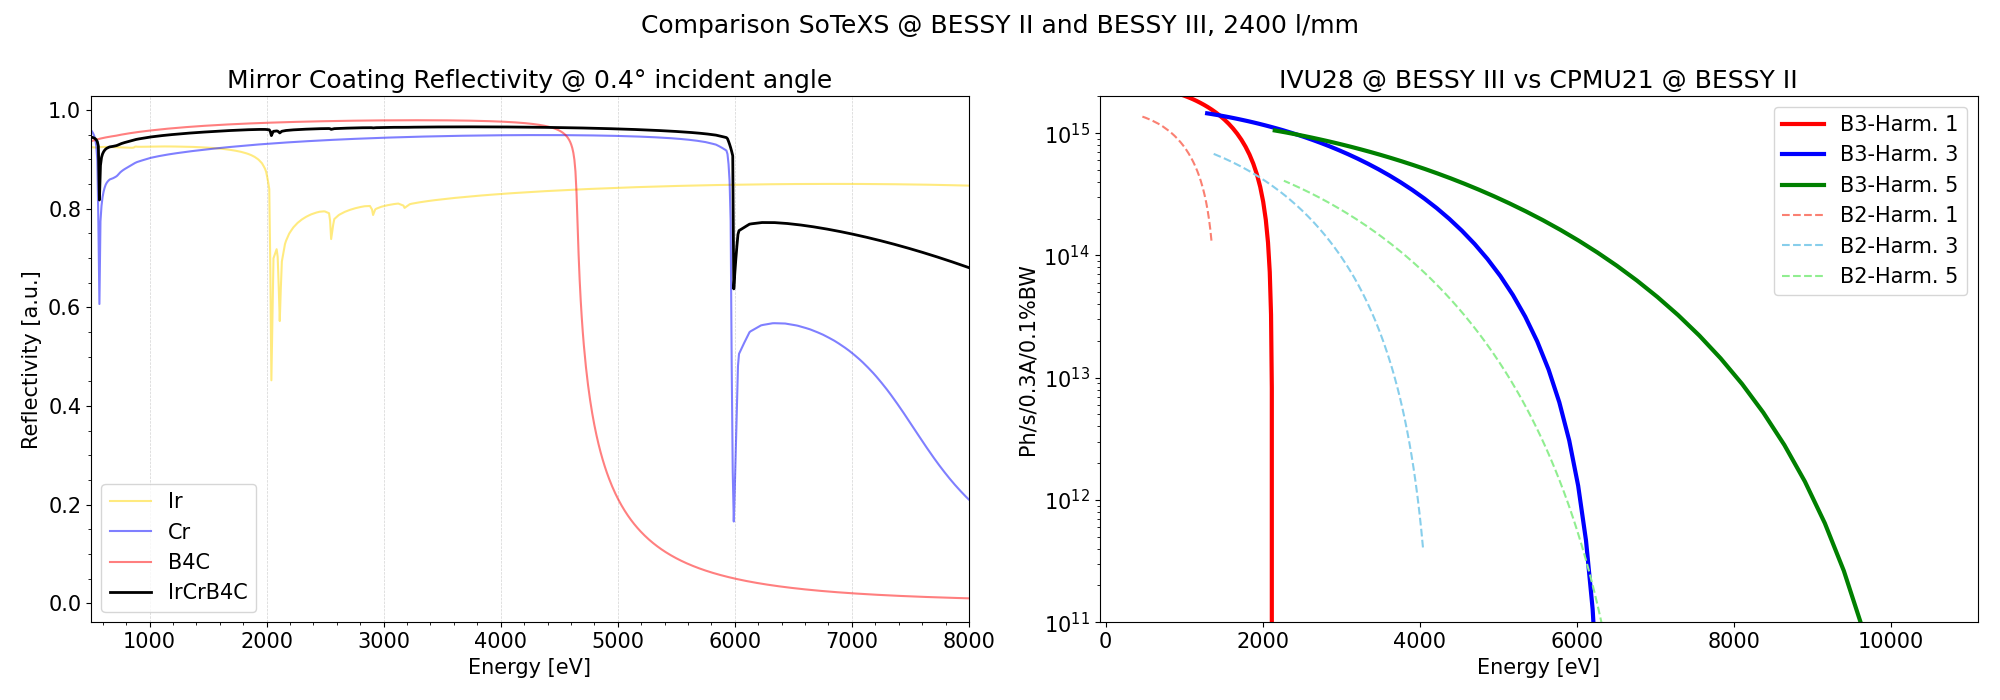
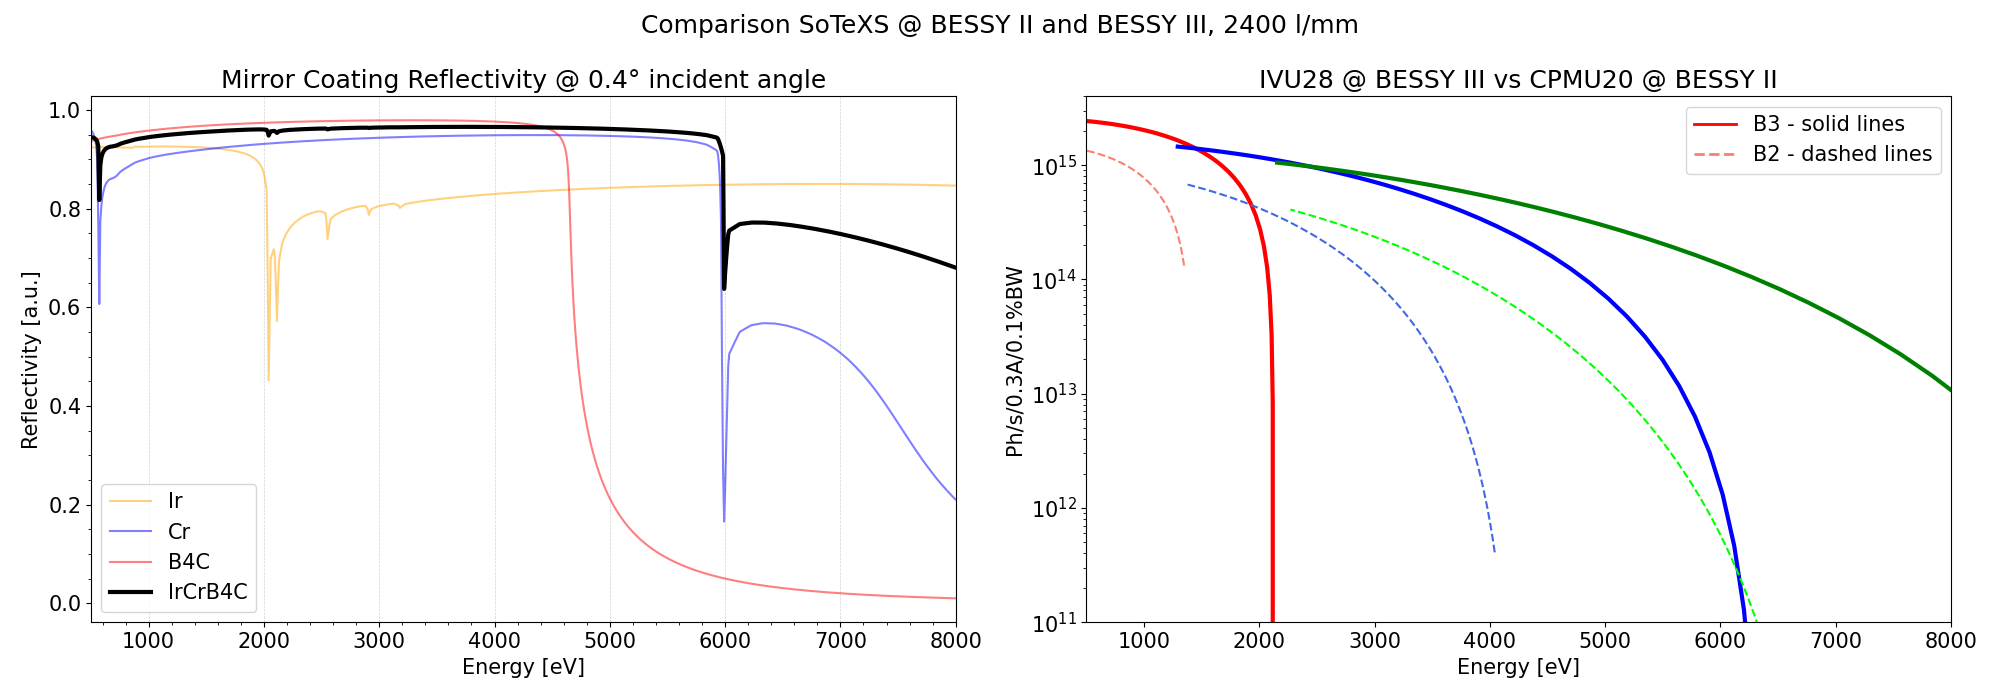
sotexs BII simulation_1200_Pt

diff --git a/beamlines/Signature1-SoTeXS/simulations/comparison_with_BII/eval_2400_talk.py b/beamlines/Signature1-SoTeXS/simulations/comparison_with_BII/eval_2400_talk.py
@@ -43,6 +43,8 @@ plt.rcParams.update({'font.size': 15})  # Change 14 to any size you prefer
 fig, (axs) = plt.subplots(1, 2, figsize=(20, 7))
 fig.suptitle('Comparison SoTeXS @ BESSY II and BESSY III, 2400 l/mm')
 x_range = [500, 8000]
+colors = ['red', 'blue', 'green']
+color_B2 = ['salmon', 'royalblue', 'lime']
 
 # MIRROR REFLECTIVITY
 ax1 = axs[0]
@@ -63,10 +65,10 @@ Cr, _ = get_reflectivity(Cr, E=E, theta=theta)
 B4C, _ = get_reflectivity(B4C, E=E, theta=theta)
 IrCrB4C, _ = get_reflectivity(IrCrB4C, E=E, theta=theta)
 
-ax1.plot(E, Ir, 'gold', label='Ir', alpha=0.5)
+ax1.plot(E, Ir, 'orange', label='Ir', alpha=0.5)
 ax1.plot(E, Cr, 'blue', label='Cr', alpha=0.5)
 ax1.plot(E, B4C, 'red', label='B4C', alpha=0.5)
-ax1.plot(E, IrCrB4C, 'black', label='IrCrB4C', linewidth=2)
+ax1.plot(E, IrCrB4C, 'black', label='IrCrB4C', linewidth=3)
 
 ax1.set_title('Mirror Coating Reflectivity @ 'f'{theta}° incident angle')
 ax1.set_xlabel('Energy [eV]')
@@ -81,8 +83,7 @@ ax1.grid(which='major', axis='x', linestyle='--', linewidth=0.5, color='lightgre
 ax3 = axs[0]
 
 window = 20
-colors = ['red', 'blue', 'green']
-color_B2 = ['salmon', 'skyblue', 'lightgreen']
+
 
 
 ax3 = axs[1]
@@ -98,12 +99,19 @@ for ind,harm in enumerate(harms):
              color=color_B2[ind], linestyle='dashed',
              label=f'B2-Harm. {harm}')
     
-ax3.legend()
 ax3.set_yscale('log')
-ax3.set_ylim((1e11,2e15))
+ax3.set_ylim((1e11,4e15))
+ax3.set_xlim(x_range)
 ax3.set_xlabel('Energy [eV]')
 ax3.set_ylabel('Ph/s/0.3A/0.1%BW')
-ax3.set_title('IVU28 @ BESSY III vs CPMU21 @ BESSY II')
+ax3.set_title('IVU28 @ BESSY III vs CPMU20 @ BESSY II')
+
+custom_lines = [
+    Line2D([0], [0], color=colors[0], linestyle='solid', lw=2),
+    Line2D([0], [0], color=color_B2[0], linestyle='dashed', lw=2),
+]
+
+ax3.legend(custom_lines, ['B3 - solid lines', 'B2 - dashed lines'], loc='best')
 
 # SAVING
 # Ensure the "plot" folder exists
@@ -130,25 +138,27 @@ fig.suptitle('Comparison SoTeXS @ BESSY II and BESSY III, 2400 l/mm')
 ax3 = axs[0]
 
 window = 20
-colors = ['red', 'blue', 'green']
-color_B2 = ['salmon', 'skyblue', 'lightgreen']
+
 
 ax3.plot(mov_av(BL_df['PhotonEnergy'], window), 
              mov_av(BL_df['Bandwidth']*1000, window),
              linestyle='solid',
              label=f'B3 - nano focus',
-             color='blue')
+             color='blue',
+             linewidth=3,)
+
 ax3.plot(mov_av(BL_df_micro['PhotonEnergy'], window), 
              mov_av(BL_df_micro['Bandwidth']*1000, window),
              linestyle='solid',
              label=f'B3 - micro focus', 
-             color='orange')
+             color='orange',
+             linewidth=3,)
 
 ax3.plot(mov_av(BL_df_2['PhotonEnergy'], window), 
              mov_av(BL_df_2['Bandwidth']*1000, window),
              linestyle='solid',
              label=f'B2', 
-             color='green')
+             color='lime')
 
 
 
@@ -164,13 +174,14 @@ ax3.grid(which='major', axis='x', linestyle='--', linewidth=0.5, color='lightgre
 # BEAMLINE FLUX CURVE
 ax4 = axs[1]
 window = 1
+ls = ['solid', 'dashed', 'dotted']
 for ind,harm in enumerate(harms):
     Emin_harm = undulator_3[f'Energy{harm}[eV]'].min()
     Emax_harm = undulator_3[f'Energy{harm}[eV]'].max()
     filtered_df = BL_df[(BL_df['PhotonEnergy'] >= Emin_harm) & (BL_df['PhotonEnergy'] <= Emax_harm)]
     ax4.plot(mov_av(filtered_df['PhotonEnergy'], window), 
              mov_av(filtered_df[f'PhotonFlux{harm}'], window),
-             color='blue', linestyle='solid',
+             color='blue', linestyle=ls[ind], linewidth=3,
              label=f'B3-nano')
 
 for ind,harm in enumerate(harms):
@@ -179,7 +190,7 @@ for ind,harm in enumerate(harms):
     filtered_df = BL_df_micro[(BL_df_micro['PhotonEnergy'] >= Emin_harm) & (BL_df_micro['PhotonEnergy'] <= Emax_harm)]
     ax4.plot(mov_av(filtered_df['PhotonEnergy'], window), 
              mov_av(filtered_df[f'PhotonFlux{harm}'], window),
-             color='orange', linestyle='solid',
+             color='orange', linestyle=ls[ind], linewidth=3,
              label=f'B3-micro')
     
 for ind,harm in enumerate(harms):    
@@ -188,20 +199,14 @@ for ind,harm in enumerate(harms):
     filtered_df = BL_df_2[(BL_df_2['PhotonEnergy'] >= Emin_harm) & (BL_df_2['PhotonEnergy'] <= Emax_harm)]
     ax4.plot(mov_av(filtered_df['PhotonEnergy'], window), 
                 mov_av(filtered_df[f'PhotonFlux{harm}'], window),
-                color='green', linestyle='dashed',
+                color='lime', linestyle=ls[ind],
                 label=f'B2-Harm. {harm}')
     
 
 ax4.set_title('Flux at Focus')
 ax4.set_xlabel('Energy [eV]')
 ax4.set_ylabel('Photon flux [ph/s/300 mA/TBW]')
-custom_lines = [
-    Line2D([0], [0], color='blue', linestyle='solid', lw=2),
-    Line2D([0], [0], color='orange', linestyle='solid', lw=2),
-    Line2D([0], [0], color='green', linestyle='solid', lw=2)
-]
 
-ax4.legend(custom_lines, ['B3-nano', 'B3-micro', 'B2'], loc='best')
 ax4.set_xlim(x_range)
 ax4.minorticks_on()
 ax4.grid(which='major', axis='x', linestyle='--', linewidth=0.5, color='lightgrey')
@@ -214,169 +219,95 @@ plt.savefig('plot/talk/SoTeXS_2400_comparison_2.png')
 # plt.show()
 plt.close()
 
-# # TRANSMITTED BANDWIDTH
-# ax3 = axs[0, 0]
 
-# window = 20
-# colors = ['red', 'blue', 'green']
-# color_B2 = ['salmon', 'skyblue', 'lightgreen']
-# for ind,harm in enumerate(harms):
-#     Emin_harm = undulator_3[f'Energy{harm}[eV]'].min()
-#     Emax_harm = undulator_3[f'Energy{harm}[eV]'].max()
-#     filtered_df = BL_df[(BL_df['PhotonEnergy'] >= Emin_harm) & (BL_df['PhotonEnergy'] <= Emax_harm)]
-#     ax3.plot(mov_av(filtered_df['PhotonEnergy'], window), 
-#              mov_av(filtered_df['Bandwidth']*1000, window),
-#              color=colors[ind], linestyle='solid',
-#              label=f'B3-Harm. {harm}')
-#     Emin_harm = undulator_2[f'Energy{harm}[eV]'].min()
-#     Emax_harm = undulator_2[f'Energy{harm}[eV]'].max()
-#     filtered_df = BL_df_2[(BL_df_2['PhotonEnergy'] >= Emin_harm) & (BL_df_2['PhotonEnergy'] <= Emax_harm)]
-#     ax3.plot(mov_av(filtered_df['PhotonEnergy'], window), 
-#                 mov_av(filtered_df['Bandwidth']*1000, window),
-#                 color=color_B2[ind], linestyle='dashed',
-#                 label=f'B2-Harm. {harm}')
+###################################################
+fig, (axs) = plt.subplots(1, 2, figsize=(20, 7))
+fig.suptitle('Comparison SoTeXS @ BESSY II and BESSY III, 2400 l/mm')
 
 
-# ax3.set_title(f'Transmitted Bandwidth @{int(SlitSize[0]*1000)} µm ExitSlit')
-# ax3.set_xlabel('Energy [eV]')
-# ax3.set_ylabel('Transmitted bandwidth [meV]')
-# ax3.legend(loc='best')
-# ax3.set_xlim(x_range)
-# ax3.minorticks_on()
-# ax3.grid(which='major', axis='x', linestyle='--', linewidth=0.5, color='lightgrey')
+# Resolving Power
+ax3 = axs[0]
+
+window = 10
 
 
-# # BEAMLINE FLUX CURVE
-# ax4 = axs[0, 1]
-# window = 1
-# for ind,harm in enumerate(harms):
-#     Emin_harm = undulator_3[f'Energy{harm}[eV]'].min()
-#     Emax_harm = undulator_3[f'Energy{harm}[eV]'].max()
-#     filtered_df = BL_df[(BL_df['PhotonEnergy'] >= Emin_harm) & (BL_df['PhotonEnergy'] <= Emax_harm)]
-#     ax4.plot(mov_av(filtered_df['PhotonEnergy'], window), 
-#              mov_av(filtered_df[f'PhotonFlux{harm}'], window),
-#              color=colors[ind], linestyle='solid',
-#              label=f'B3-Harm. {harm}')
-#     Emin_harm = undulator_2[f'Energy{harm}[eV]'].min()
-#     Emax_harm = undulator_2[f'Energy{harm}[eV]'].max()
-#     filtered_df = BL_df_2[(BL_df_2['PhotonEnergy'] >= Emin_harm) & (BL_df_2['PhotonEnergy'] <= Emax_harm)]
-#     ax4.plot(mov_av(filtered_df['PhotonEnergy'], window), 
-#                 mov_av(filtered_df[f'PhotonFlux{harm}'], window),
-#                 color=color_B2[ind], linestyle='dashed',
-#                 label=f'B2-Harm. {harm}')
+ax3.plot(mov_av(BL_df['PhotonEnergy'], window), 
+             mov_av(BL_df['PhotonEnergy']/BL_df['Bandwidth'], window),
+             linestyle='solid',
+             label=f'B3 - nano focus',
+             color='blue',
+             linewidth=3,)
+
+ax3.plot(mov_av(BL_df_micro['PhotonEnergy'], window), 
+             mov_av(BL_df_micro['PhotonEnergy']/BL_df_micro['Bandwidth'], window),
+             linestyle='solid',
+             label=f'B3 - micro focus', 
+             color='orange',
+             linewidth=3,)
+
+window=50
+ax3.plot(mov_av(BL_df_2['PhotonEnergy'], window), 
+             mov_av(BL_df_2['PhotonEnergy']/BL_df_2['Bandwidth'], window),
+             linestyle='solid',
+             label=f'B2', 
+             color='lime')
+
+
+
+ax3.set_title(f'Resolving Power @{int(SlitSize[0]*1000)} µm ExitSlit')
+ax3.set_xlabel('Energy [eV]')
+ax3.set_ylabel('Resolving Power [a.u.]')
+ax3.legend(loc='best')
+ax3.set_xlim(x_range)
+ax3.set_ylim(5000, 20000)
+ax3.minorticks_on()
+ax3.grid(which='major', axis='x', linestyle='--', linewidth=0.5, color='lightgrey')
+
+
+# BEAMLINE FLUX CURVE
+ax4 = axs[1]
+window = 1
+ls = ['solid', 'dashed', 'dotted']
+for ind,harm in enumerate(harms):
+    Emin_harm = undulator_3[f'Energy{harm}[eV]'].min()
+    Emax_harm = undulator_3[f'Energy{harm}[eV]'].max()
+    filtered_df = BL_df[(BL_df['PhotonEnergy'] >= Emin_harm) & (BL_df['PhotonEnergy'] <= Emax_harm)]
+    ax4.plot(mov_av(filtered_df['PhotonEnergy'], window), 
+             mov_av(filtered_df[f'PhotonFlux{harm}'], window),
+             color='blue', linestyle=ls[ind], linewidth=3,
+             label=f'B3-nano')
+
+for ind,harm in enumerate(harms):
+    Emin_harm = undulator_3[f'Energy{harm}[eV]'].min()
+    Emax_harm = undulator_3[f'Energy{harm}[eV]'].max()
+    filtered_df = BL_df_micro[(BL_df_micro['PhotonEnergy'] >= Emin_harm) & (BL_df_micro['PhotonEnergy'] <= Emax_harm)]
+    ax4.plot(mov_av(filtered_df['PhotonEnergy'], window), 
+             mov_av(filtered_df[f'PhotonFlux{harm}'], window),
+             color='orange', linestyle=ls[ind], linewidth=3,
+             label=f'B3-micro')
+    
+for ind,harm in enumerate(harms):    
+    Emin_harm = undulator_2[f'Energy{harm}[eV]'].min()
+    Emax_harm = undulator_2[f'Energy{harm}[eV]'].max()
+    filtered_df = BL_df_2[(BL_df_2['PhotonEnergy'] >= Emin_harm) & (BL_df_2['PhotonEnergy'] <= Emax_harm)]
+    ax4.plot(mov_av(filtered_df['PhotonEnergy'], window), 
+                mov_av(filtered_df[f'PhotonFlux{harm}'], window),
+                color='lime', linestyle=ls[ind],
+                label=f'B2-Harm. {harm}')
     
 
-# ax4.set_title('Flux with CPMU21')
-# ax4.set_xlabel('Energy [eV]')
-# ax4.set_ylabel('Photon flux [ph/s/300 mA/TBW]')
-# ax4.legend(loc='best')
-# ax4.set_xlim(x_range)
-# ax4.minorticks_on()
-# ax4.grid(which='major', axis='x', linestyle='--', linewidth=0.5, color='lightgrey')
-# ax4.set_yscale('log')
+ax4.set_title('Flux at Focus')
+ax4.set_xlabel('Energy [eV]')
+ax4.set_ylabel('Photon flux [ph/s/300 mA/TBW]')
 
-# # RESOLVING POWER
-# ax5 = axs[1, 0]
-# window = 20
-# for ind,harm in enumerate(harms):
-#     Emin_harm = undulator_3[f'Energy{harm}[eV]'].min()
-#     Emax_harm = undulator_3[f'Energy{harm}[eV]'].max()
-#     filtered_df = BL_df[(BL_df['PhotonEnergy'] >= Emin_harm) & (BL_df['PhotonEnergy'] <= Emax_harm)]
-#     ax5.plot(mov_av(filtered_df['PhotonEnergy'], window),
-#              mov_av(filtered_df[f'PhotonEnergy']/filtered_df[f'Bandwidth'], window),
-#              color=colors[ind], linestyle='solid',
-#              label=f'B3-Harm. {harm}')
-#     Emin_harm = undulator_2[f'Energy{harm}[eV]'].min()
-#     Emax_harm = undulator_2[f'Energy{harm}[eV]'].max()
-#     filtered_df = BL_df_2[(BL_df_2['PhotonEnergy'] >= Emin_harm) & (BL_df_2['PhotonEnergy'] <= Emax_harm)]
-#     ax5.plot(mov_av(filtered_df['PhotonEnergy'], window),
-#              mov_av(filtered_df[f'PhotonEnergy']/filtered_df[f'Bandwidth'], window),
-#                 color=color_B2[ind], linestyle='dashed',
-#                 label=f'B2-Harm. {harm}')
+ax4.set_xlim(x_range)
+ax4.minorticks_on()
+ax4.grid(which='major', axis='x', linestyle='--', linewidth=0.5, color='lightgrey')
+ax4.set_ylim((10e9,1e15))
+ax4.set_yscale('log')
 
-# ax5.set_title(f'Resolving Power @ {int(SlitSize[0]*1000)} µm ExitSlit')
-# ax5.set_xlabel('Energy [eV]')
-# ax5.set_ylabel(r'$\frac{E}{\Delta E}$ [a.u.]')
-# ax5.legend(loc='best')
-# ax5.set_xlim(x_range)
-# ax5.minorticks_on()
-# ax5.grid(which='major', axis='x', linestyle='--', linewidth=0.5, color='lightgrey')
-
-
-# # Flux Density
-# ax6 = axs[1, 1]
-
-# for ind,harm in enumerate(harms):
-#     Emin_harm = undulator_3[f'Energy{harm}[eV]'].min()
-#     Emax_harm = undulator_3[f'Energy{harm}[eV]'].max()
-#     filtered_df = BL_df[(BL_df['PhotonEnergy'] >= Emin_harm) & (BL_df['PhotonEnergy'] <= Emax_harm)]
-#     foc_area = (filtered_df['VerticalFocusFWHM']*filtered_df['HorizontalFocusFWHM'])*1000
-#     ax6.plot(filtered_df['PhotonEnergy'],
-#              filtered_df[f'PhotonFlux{harm}']/foc_area,
-#              color=colors[ind], linestyle='solid',
-#              label=f'B3-Harm. {harm}')
-#     Emin_harm = undulator_2[f'Energy{harm}[eV]'].min()
-#     Emax_harm = undulator_2[f'Energy{harm}[eV]'].max()
-#     filtered_df = BL_df_2[(BL_df_2['PhotonEnergy'] >= Emin_harm) & (BL_df_2['PhotonEnergy'] <= Emax_harm)]
-#     foc_area = (filtered_df['VerticalFocusFWHM']*filtered_df['HorizontalFocusFWHM'])*1000
-#     ax6.plot(filtered_df['PhotonEnergy'],
-#              filtered_df[f'PhotonFlux{harm}']/foc_area,
-#                 color=color_B2[ind], linestyle='dashed',
-#                 label=f'B2-Harm. {harm}')
-    
-# ax6.set_title('Flux Density')
-# ax6.set_xlabel('Energy [eV]')
-# ax6.set_ylabel('Photons flux per µm²')
-# ax6.legend(loc='best')
-# ax6.set_xlim(x_range)
-# ax6.minorticks_on()
-# ax6.set_yscale('log')
-# ax6.grid(which='major', axis='x', linestyle='--', linewidth=0.5, color='lightgrey')
-
-# # Horizontal Focus Size
-# ax7 = axs[2, 0]
-# ax7.plot(mov_av(BL_df['PhotonEnergy'], window),
-#          mov_av(BL_df['HorizontalFocusFWHM']*1000, window),
-#          label='B3', color='purple', linestyle='solid')
-
-# ax7.plot(mov_av(BL_df_2['PhotonEnergy'], window),
-#          mov_av(BL_df_2['HorizontalFocusFWHM']*1000, window),
-#          label='B2', color='violet', linestyle='dashed')
-
-# ax7.set_title('Horizontal Focus Size')
-# ax7.set_xlabel('Energy [eV]')
-# ax7.set_ylabel('[µm]')
-# ax7.set_ylim(0.01, 10.5)
-# ax7.set_yscale('log')
-# ax7.set_xlim(x_range)
-# ax7.minorticks_on()
-# ax7.grid(which='major', axis='x', linestyle='--', linewidth=0.5, color='lightgrey')
-# ax7.yaxis.set_major_formatter(ScalarFormatter())
-# ax7.ticklabel_format(style='plain', axis='y')
-# ax7.legend(loc='best')
-# # Vertical Focus Size
-# ax8 = axs[2, 1]
-
-# ax8.plot(mov_av(BL_df['PhotonEnergy'], window),
-#          mov_av(BL_df['VerticalFocusFWHM']*1000, window),
-#          label='B3', color='brown', linestyle='solid')
-
-# ax8.plot(mov_av(BL_df_2['PhotonEnergy'], window),
-#          mov_av(BL_df_2['VerticalFocusFWHM']*1000, window),
-#          label='B2', color='peru', linestyle='dashed')
-
-# ax8.set_title('Vertical Focus Size')
-# ax8.set_xlabel('Energy [eV]')
-# ax8.set_ylabel('[µm]')
-# ax8.set_xlim(x_range)
-# ax8.set_ylim(0.01, 10.5)
-# ax8.set_yscale('log')
-# ax8.minorticks_on()
-# ax8.grid(which='major', axis='x', linestyle='--', linewidth=0.5, color='lightgrey')
-# ax8.yaxis.set_major_formatter(ScalarFormatter())
-# ax8.ticklabel_format(style='plain', axis='y')
-# ax8.legend(loc='best')
-
-
-
-
+# Save the the figure
+plt.tight_layout()
+plt.savefig('plot/talk/SoTeXS_2400_comparison_3.png')
+# plt.show()
+plt.close()

diff --git a/beamlines/Signature1-SoTeXS/simulations/comparison_with_BII/params.py b/beamlines/Signature1-SoTeXS/simulations/comparison_with_BII/params.py
@@ -3,8 +3,8 @@ import os
 import pandas as pd
 from pathlib import Path
 
-rounds_1200 = 1
-rounds_ml   = 1
+rounds_1200 = 5
+rounds_ml   = 5
 ncpu        = 30
 nrays       = 1e5
 
